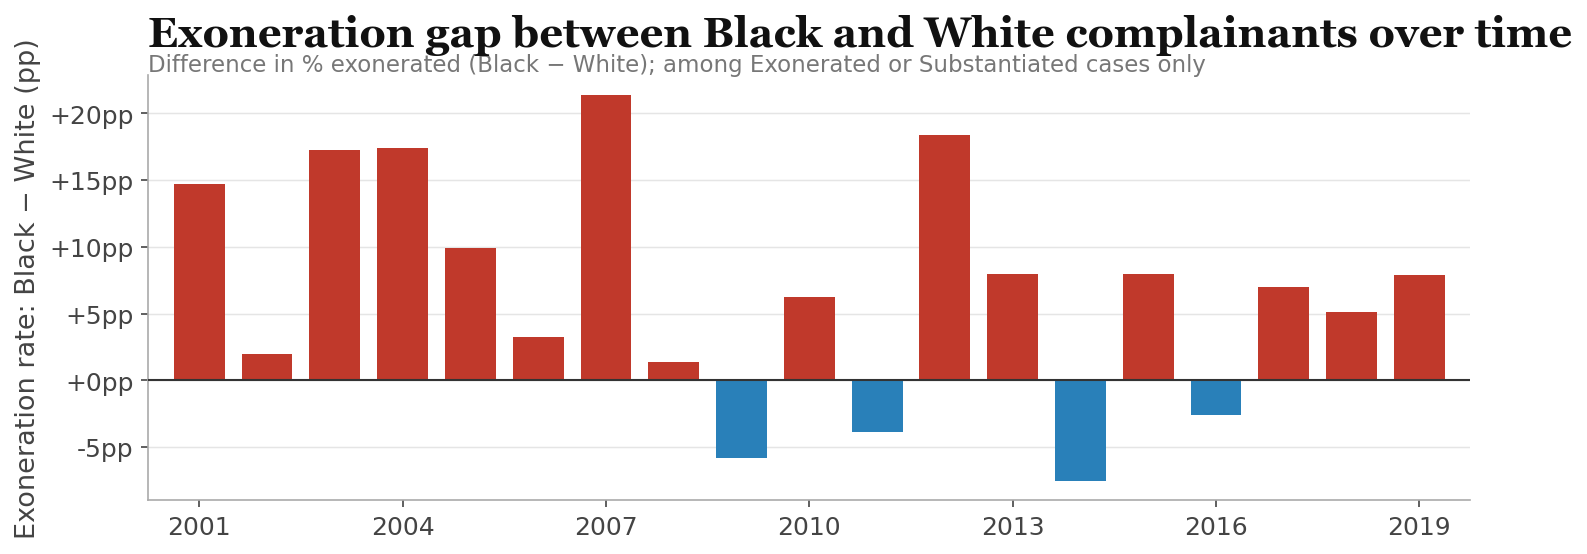
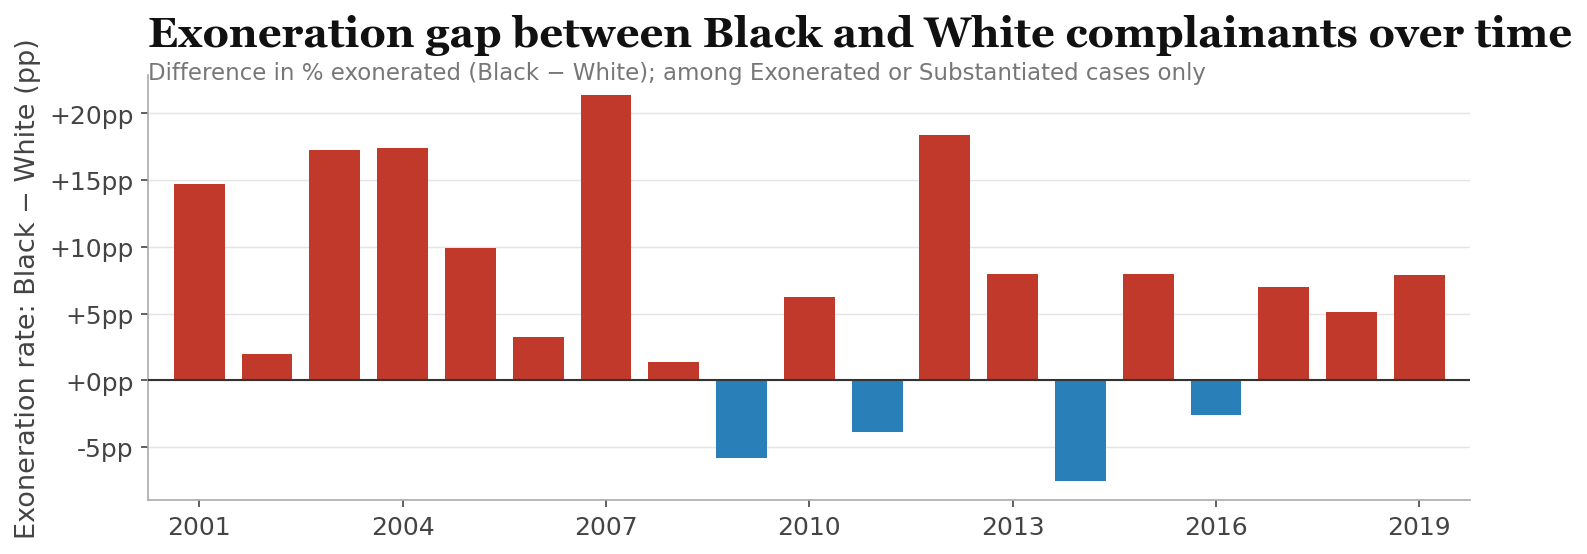
small fix

Changed region(s): [[0.0926, 0.0921, 0.7719, 0.1534]]

diff --git a/index.html b/index.html
@@ -94,6 +94,7 @@
 			<strong>Gabrielle Cohn</strong> — <em>gcohn@mit.edu</em>
 		</p>
 	</header>
+  <p>Note: Images are large and may take a moment to load.</p>
 
 	<main>
     <h2>Proposition:</h2>
@@ -293,6 +294,9 @@ Write a couple of sentences documenting your decision, with corresponding ration
       For a complex dataset like this, there will always be ways of looking at the data (aggregating, focusing on a specific subset, etc.) that lend more to one conclusion than another, but might both be "true". 
     </p>
     </section>
+    <h3>Use of generative AI</h3>
+    <p>I used generative AI to help me write the analysis code and plotting code. Example of analysis prompting: (e.g. "let's identify the worst top 10% of officers as measured by number of complaints from Black complainants, and then print out the complaint sum with and without complaints from these officers."). Note that I come up with the idea for the analysis that I want to do, and then use AI to write the code to do it. I follow a similar process with the visualizations, first getting an idea of the graph that I want, and then describing it to AI.
+      The plots and text were arranged into the final visualization by me in Figma, and I hand-created the art and icons. </p>
 	</main>
 </body>
 </html>

diff --git a/vis_2.py b/vis_2.py
@@ -1470,7 +1470,7 @@ def make_plot9() -> None:
         fontfamily="Georgia",
     )
     ax.text(
-        0, 1.01,
+        0, 0.99,
         "Difference in % exonerated (Black − White); among Exonerated or Substantiated cases only",
         transform=ax.transAxes, fontsize=fs(11), color="#777777",
     )
